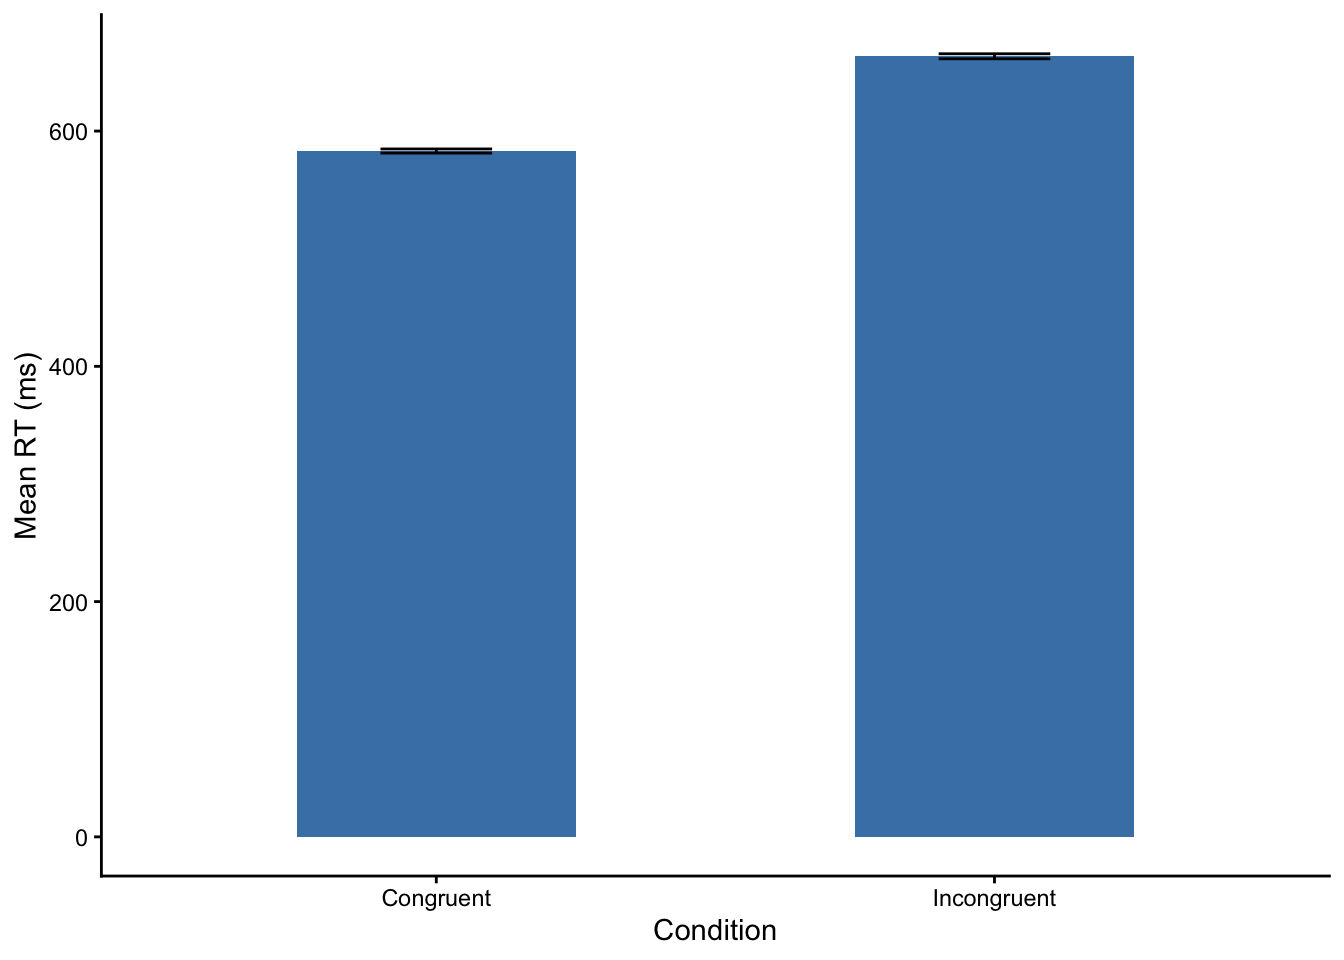
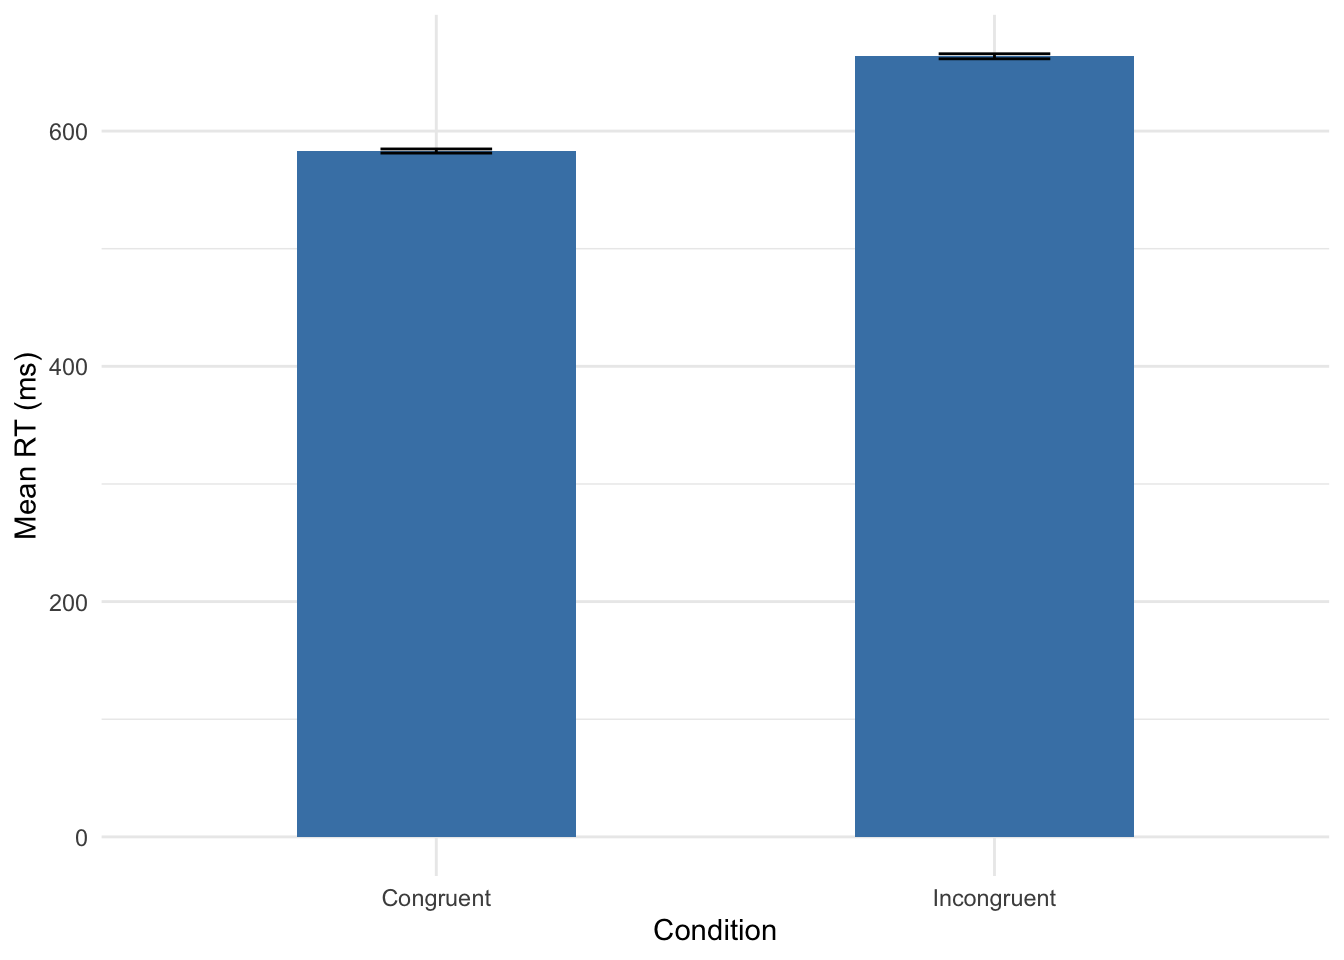
more project 2

diff --git a/web/project2/reports/project2.html b/web/project2/reports/project2.html
@@ -6,7 +6,7 @@
 
 <meta name="viewport" content="width=device-width, initial-scale=1.0, user-scalable=yes">
 
-<meta name="author" content="Your Name">
+<meta name="author" content="Destinee Ramos">
 
 <title>Project 2 — IAT Data Analysis Pipeline</title>
 <style>
@@ -92,7 +92,7 @@ pre > code.sourceCode > span > a:first-child::before { text-decoration: underlin
     <div>
     <div class="quarto-title-meta-heading">Author</div>
     <div class="quarto-title-meta-contents">
-             <p>Your Name </p>
+             <p>Destinee Ramos </p>
           </div>
   </div>
     
@@ -423,10 +423,11 @@ pre > code.sourceCode > span > a:first-child::before { text-decoration: underlin
 <span id="cb20-13"><a href="#cb20-13" aria-hidden="true" tabindex="-1"></a>  <span class="fu">geom_vline</span>(<span class="at">xintercept =</span> d_mean, <span class="at">color =</span> <span class="st">"red"</span>) <span class="sc">+</span></span>
 <span id="cb20-14"><a href="#cb20-14" aria-hidden="true" tabindex="-1"></a>  <span class="fu">geom_vline</span>(<span class="at">xintercept =</span> d_mean <span class="sc">-</span> d_sd, <span class="at">color =</span> <span class="st">"blue"</span>, <span class="at">linetype =</span> <span class="st">"dashed"</span>) <span class="sc">+</span></span>
 <span id="cb20-15"><a href="#cb20-15" aria-hidden="true" tabindex="-1"></a>  <span class="fu">geom_vline</span>(<span class="at">xintercept =</span> d_mean <span class="sc">+</span> d_sd, <span class="at">color =</span> <span class="st">"blue"</span>, <span class="at">linetype =</span> <span class="st">"dashed"</span>) <span class="sc">+</span></span>
-<span id="cb20-16"><a href="#cb20-16" aria-hidden="true" tabindex="-1"></a>  <span class="fu">labs</span>(<span class="at">x =</span> <span class="st">"Mean D-Score"</span>, <span class="at">y =</span> <span class="st">"Count"</span>)</span>
-<span id="cb20-17"><a href="#cb20-17" aria-hidden="true" tabindex="-1"></a>}</span>
-<span id="cb20-18"><a href="#cb20-18" aria-hidden="true" tabindex="-1"></a></span>
-<span id="cb20-19"><a href="#cb20-19" aria-hidden="true" tabindex="-1"></a><span class="fu">print</span>(histogram)</span></code><button title="Copy to Clipboard" class="code-copy-button"><i class="bi"></i></button></pre></div>
+<span id="cb20-16"><a href="#cb20-16" aria-hidden="true" tabindex="-1"></a>  <span class="fu">labs</span>(<span class="at">x =</span> <span class="st">"Mean D-Score"</span>, <span class="at">y =</span> <span class="st">"Count"</span>) <span class="sc">+</span> </span>
+<span id="cb20-17"><a href="#cb20-17" aria-hidden="true" tabindex="-1"></a>   <span class="fu">theme_classic</span>() </span>
+<span id="cb20-18"><a href="#cb20-18" aria-hidden="true" tabindex="-1"></a>}</span>
+<span id="cb20-19"><a href="#cb20-19" aria-hidden="true" tabindex="-1"></a></span>
+<span id="cb20-20"><a href="#cb20-20" aria-hidden="true" tabindex="-1"></a><span class="fu">print</span>(histogram)</span></code><button title="Copy to Clipboard" class="code-copy-button"><i class="bi"></i></button></pre></div>
 <div class="cell-output-display">
 <div id="fig-rt-hist-lines" class="quarto-float quarto-figure quarto-figure-center anchored">
 <figure class="quarto-float quarto-float-fig figure">
@@ -494,7 +495,7 @@ Figure&nbsp;2: Scatterplot with a fitted regression line showing the relationshi
 <span id="cb23-19"><a href="#cb23-19" aria-hidden="true" tabindex="-1"></a>  <span class="fu">geom_col</span>(<span class="at">fill =</span> <span class="st">"steelblue"</span>, <span class="at">width =</span> <span class="fl">0.5</span>) <span class="sc">+</span></span>
 <span id="cb23-20"><a href="#cb23-20" aria-hidden="true" tabindex="-1"></a>  <span class="fu">geom_errorbar</span>(<span class="fu">aes</span>(<span class="at">ymin =</span> mean_rt <span class="sc">-</span> se, <span class="at">ymax =</span> mean_rt <span class="sc">+</span> se), <span class="at">width =</span> <span class="fl">0.2</span>) <span class="sc">+</span></span>
 <span id="cb23-21"><a href="#cb23-21" aria-hidden="true" tabindex="-1"></a>  <span class="fu">labs</span>(<span class="at">x =</span> <span class="st">"Condition"</span>, <span class="at">y =</span> <span class="st">"Mean RT (ms)"</span>, <span class="at">fill =</span> <span class="st">"Condition"</span>) <span class="sc">+</span></span>
-<span id="cb23-22"><a href="#cb23-22" aria-hidden="true" tabindex="-1"></a>  <span class="fu">theme_classic</span>() </span>
+<span id="cb23-22"><a href="#cb23-22" aria-hidden="true" tabindex="-1"></a>  <span class="fu">theme_minimal</span>() </span>
 <span id="cb23-23"><a href="#cb23-23" aria-hidden="true" tabindex="-1"></a></span>
 <span id="cb23-24"><a href="#cb23-24" aria-hidden="true" tabindex="-1"></a><span class="fu">print</span>(barplot)</span></code><button title="Copy to Clipboard" class="code-copy-button"><i class="bi"></i></button></pre></div>
 <div class="cell-output-display">
